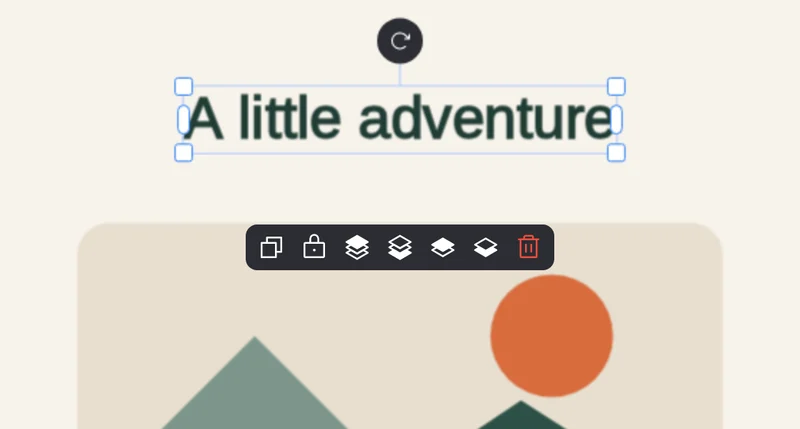
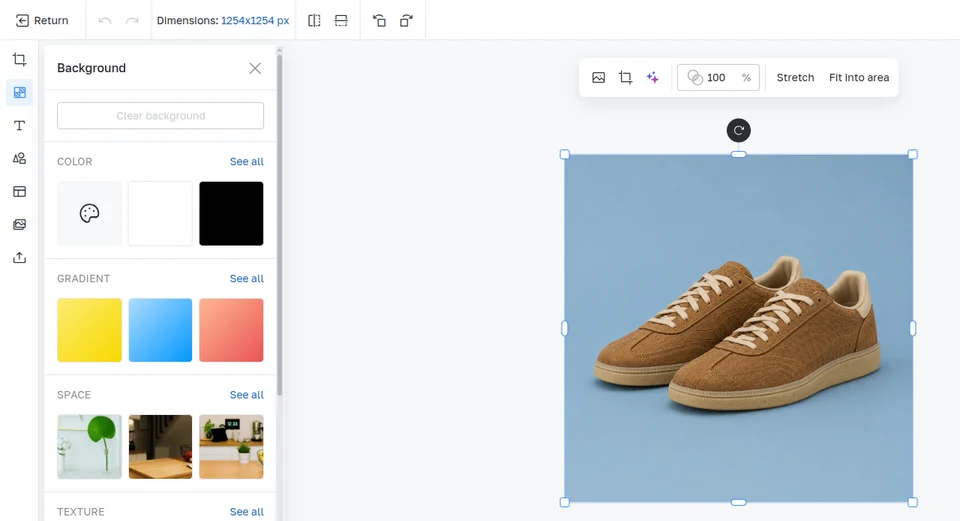
Put the Vue editor and the LinkedIn statement on the home cover; release 1.4.1
Owner's choice: the original stripes behind a real screenshot of the
Vue product image editor (linked to its case), with "I build complex
web applications." on the left. The "Browser editors" label is gone.

diff --git a/app/assets/css/main.css b/app/assets/css/main.css
@@ -173,14 +173,20 @@ p { line-height: inherit; }
 .sidebar-connect p { display: flex; gap: var(--space-1); align-items: center; font-size: 10px; }
 .sidebar-connect .status-dot { width: 4px; height: 4px; }
 .sidebar-connect a { display: inline-flex; align-items: center; min-height: 44px; font-size: 11px; }
-.profile-cover { position: relative; height: 196px; padding: var(--space-5) var(--gutter); background: var(--soft-accent); overflow: hidden; color: var(--accent-label); }
-/* The labels sit on a layer above the decorative shapes, which start to the right of them so nothing covers the text. */
-.profile-cover > span { position: relative; z-index: 1; font-size: 9px; text-transform: uppercase; letter-spacing: .18em; }
-/* The cover shows the real open-source editor (live-demo screenshot) and links to the demo. It ends above the button row, so the avatar and "Let's talk" keep their line. */
-.cover-demo { position: absolute; top: var(--space-5); right: var(--gutter); bottom: var(--space-8); aspect-ratio: 800 / 429; overflow: hidden; border: 1px solid var(--line); border-radius: 10px; background: #f6f2ea; box-shadow: 0 12px 32px -14px #050a14; transition: transform .2s, box-shadow .2s; }
-.cover-demo img { display: block; width: 100%; height: 100%; object-fit: cover; }
-@media (hover: hover) { .cover-demo:hover { transform: translateY(-2px); box-shadow: 0 16px 36px -14px #050a14; } }
-.cover-demo:focus-visible { outline-offset: 3px; }
+.profile-cover { position: relative; height: 228px; padding: var(--space-5) var(--gutter); background: var(--soft-accent); overflow: hidden; color: var(--accent-label); }
+/* Decorative stripes from the original cover sit behind the real Vue editor screenshot; the window ends above the avatar and button row. */
+.cover-shapes { display: flex; position: absolute; inset: -80px -20px -65px 372px; transform: rotate(-28deg); gap: 22px; }
+.cover-shapes i { display: block; width: 100px; border: 1px solid var(--cover-fill); border-radius: 65px; box-shadow: 0 0 0 12px var(--soft-accent), 0 0 0 13px #263d69; }
+.cover-shapes i:nth-child(2) { background: var(--cover-fill); }
+.cover-shapes i:nth-child(3) { background: var(--cover-light); }
+/* The owner's LinkedIn statement sits left of the stripes; on phones it sits above the editor window. */
+/* Line breaks come from the copy (as on the LinkedIn cover), so the block hugs its text and never reaches the stripes. */
+.cover-statement { position: relative; z-index: 1; display: flex; flex-direction: column; align-items: start; gap: var(--space-2); width: fit-content; white-space: pre-line; color: var(--accent-label); font-size: 12px; line-height: 1.5; }
+.cover-statement strong { color: var(--text); font-size: 24px; line-height: 1.15; font-weight: 650; letter-spacing: -.02em; }
+.cover-editor { position: absolute; z-index: 1; top: var(--space-5); right: var(--gutter); bottom: var(--space-8); aspect-ratio: 960 / 521; overflow: hidden; border: 1px solid #ffffff; border-radius: 10px; background: #ffffff; box-shadow: 0 16px 36px -12px #050a14; transition: transform .2s, box-shadow .2s; }
+.cover-editor img { display: block; width: 100%; height: 100%; object-fit: cover; object-position: left top; }
+@media (hover: hover) { .cover-editor:hover { transform: translateY(-2px); box-shadow: 0 20px 40px -12px #050a14; } }
+.cover-editor:focus-visible { outline-offset: 3px; }
 .profile-body { padding: 0 var(--gutter) var(--section-space); }
 .profile-actions { display: flex; align-items: center; justify-content: space-between; position: relative; margin-top: -34px; margin-bottom: var(--space-4); }
 .profile-avatar { position: relative; display: flex; justify-content: center; align-items: center; width: 86px; height: 86px; border: 6px solid var(--canvas); border-radius: 24px; background: var(--cover-light); color: #202c45; font-size: 32px; font-weight: 600; letter-spacing: -4px; }
@@ -432,9 +438,12 @@ p { line-height: inherit; }
   .primary-nav i { display: none !important; }
   .main-column { border: 0; padding-bottom: calc(76px + env(safe-area-inset-bottom)); }
   .page-topbar { min-height: 58px; padding-right: var(--space-2); }
-  /* On phones the window starts under the label row, so a long Russian label never runs beneath it. */
-  .profile-cover { height: 184px; }
-  .cover-demo { top: var(--space-10); }
+  .profile-cover { height: 268px; }
+  .cover-statement { gap: var(--space-1); font-size: 11px; }
+  .cover-statement strong { font-size: 20px; }
+  .cover-editor { top: 104px; }
+  .cover-shapes { left: 306px; gap: var(--space-3); }
+  .cover-shapes i { width: 54px; }
   .profile-body h1 { font-size: 29px; letter-spacing: -1px; }
   .profile-description { white-space: normal; font-size: 16px; }
   .profile-location { font-size: 11px; gap: var(--space-3); }

diff --git a/tests/e2e/responsive.spec.ts b/tests/e2e/responsive.spec.ts
@@ -42,28 +42,41 @@ for (const frame of frames) {
 }
 
 for (const frame of frames) {
-  test(`${frame.name} home cover keeps its label clear of the editor window and the button on the avatar's line`, async ({ page }) => {
+  test(`${frame.name} home cover keeps its statement clear and the editor window above the avatar and button line`, async ({ page }) => {
     await page.setViewportSize({ width: frame.width, height: frame.height })
     for (const path of ['/', '/ru/']) {
       await page.goto(path)
 
       const layout = await page.locator('.profile-cover').evaluate((cover) => {
-        const label = cover.querySelector('span')!.getBoundingClientRect()
-        const demo = cover.querySelector('.cover-demo')!.getBoundingClientRect()
+        const editor = cover.querySelector('.cover-editor')!.getBoundingClientRect()
+        const statement = cover.querySelector('.cover-statement')!
+        const shapes = [...cover.querySelectorAll('.cover-shapes i')]
+        // Hit-testing follows the stripes' rotation; the 13px margin covers their painted ring.
+        const box = statement.getBoundingClientRect()
+        let statementOnShapes = 0
+        for (let x = box.left - 13; x <= box.right + 13; x += 4) {
+          for (let y = box.top - 13; y <= box.bottom + 13; y += 4) {
+            if (document.elementsFromPoint(x, y).some(element => shapes.includes(element))) statementOnShapes += 1
+          }
+        }
         return {
-          labelRight: label.right,
-          labelBottom: label.bottom,
-          demo: demo.toJSON() as DOMRect,
+          statement: box.toJSON() as DOMRect,
+          statementOnShapes,
+          editor: editor.toJSON() as DOMRect,
+          cover: cover.getBoundingClientRect().toJSON() as DOMRect,
           coverBottom: cover.getBoundingClientRect().bottom,
           button: document.querySelector('.profile-actions .button')!.getBoundingClientRect().toJSON() as DOMRect,
           avatar: document.querySelector('.profile-avatar')!.getBoundingClientRect().toJSON() as DOMRect
         }
       })
 
-      // The label and the editor window never overlap: the window starts right of the label or below it.
-      expect(layout.labelRight < layout.demo.left || layout.labelBottom < layout.demo.top).toBe(true)
-      // The window ends above the button row, so "Let's talk" never sits on the screenshot.
-      expect(layout.demo.bottom).toBeLessThan(layout.button.top)
+      // The statement stays clear of the stripes and of the editor window (beside it on wide screens, above it on phones).
+      expect(layout.statementOnShapes).toBe(0)
+      expect(layout.statement.right <= layout.editor.left || layout.statement.bottom <= layout.editor.top).toBe(true)
+      // The window stays inside the cover and ends above the button row, so "Let's talk" never sits on the screenshot.
+      expect(layout.editor.left).toBeGreaterThan(layout.cover.left)
+      expect(layout.editor.right).toBeLessThan(layout.cover.right)
+      expect(layout.editor.bottom).toBeLessThan(layout.button.top)
       // Owner's design: the button and the avatar form one row that straddles the cover edge.
       const centre = (box: DOMRect) => box.top + box.height / 2
       expect(Math.abs(centre(layout.button) - centre(layout.avatar))).toBeLessThanOrEqual(1)
@@ -203,11 +216,16 @@ test('a card list keeps exactly one divider before the next band', async ({ page
   await expect(page.locator('.project-grid > :last-child')).toHaveCSS('border-bottom-width', '0px')
 })
 
-test('the home cover shows the real editor and opens its live demo in a new tab', async ({ page }) => {
-  await page.goto('/')
-  const demo = page.getByRole('link', { name: 'Open the live demo of my image editor, opens in a new tab' })
+for (const { path, name, href } of [
+  { path: '/', name: 'Product image editor case study', href: '/work/product-image-editor/' },
+  { path: '/ru/', name: 'Кейс редактора изображений для товаров', href: '/ru/work/product-image-editor/' }
+]) {
+  test(`${path} cover shows the real Vue editor and opens its case study`, async ({ page }) => {
+    await page.goto(path)
+    const editor = page.getByRole('link', { name, exact: true })
 
-  await expect(demo).toHaveAttribute('href', 'https://anu3ev.github.io/image-editor/')
-  await expect(demo).toHaveAttribute('target', '_blank')
-  await expect.poll(() => demo.locator('img').evaluate((image: HTMLImageElement) => image.naturalWidth)).toBeGreaterThan(0)
-})
+    await expect(editor).toHaveAttribute('href', href)
+    await expect(editor).not.toHaveAttribute('target', '_blank')
+    await expect.poll(() => editor.locator('img').evaluate((image: HTMLImageElement) => image.naturalWidth)).toBeGreaterThan(0)
+  })
+}

diff --git a/app/i18n/messages.ts b/app/i18n/messages.ts
@@ -4,7 +4,7 @@ export const messages = {
     homeSectionTitle: 'A little about me', aboutSectionTitle: 'Experience and approach', notebookTitle: 'Development notes',
     startConversation: 'Start a conversation', builtWithCare: 'Site built by',
     currentFocus: 'Current focus',
-    tagline: 'Senior frontend engineer · Vue and TypeScript · Batumi, Georgia', crafting: 'Browser editors',
+    tagline: 'Senior frontend engineer · Vue and TypeScript · Batumi, Georgia',
     workbench: 'Latest', workAndNotes: 'Work & notes', remote: 'Remote · B2B / EOR · Relocation', allWork: 'All work',
     collaboration: 'Working together',
     home: 'Home', work: 'Portfolio', blog: 'Blog', about: 'About', contact: 'Contacts',
@@ -32,13 +32,13 @@ export const messages = {
     services: 'What I bring', openSource: 'Open-source editor core',
     certificates: 'Certificates', certificatesTitle: 'Courses and tests', otherCertificates: 'Other certificates',
     certificateCourse: 'Course', certificateTest: 'Language test', certificateLessons: 'Lessons',
-    viewCertificate: 'View certificate', downloadCv: 'Download CV', bookCall: 'Book a call', openDemo: 'Open the live demo of my image editor', bookCallNote: '30-minute video call', opensInNewTab: 'opens in a new tab'
+    viewCertificate: 'View certificate', downloadCv: 'Download CV', bookCall: 'Book a call', openEditorCase: 'Product image editor case study', coverTitle: 'I build complex\nweb applications.', coverText: 'Browser editors. E-commerce tools.\nAI integrations.', bookCallNote: '30-minute video call', opensInNewTab: 'opens in a new tab'
   },
   ru: {
     homeSectionTitle: 'Немного обо мне', aboutSectionTitle: 'Опыт и подход к работе', notebookTitle: 'Заметки о разработке',
     startConversation: 'Как со мной связаться', builtWithCare: 'Сайт собрал',
     currentFocus: 'Чем занимаюсь',
-    tagline: 'Senior frontend-разработчик · Vue и TypeScript · Батуми, Грузия', crafting: 'Браузерные редакторы',
+    tagline: 'Senior frontend-разработчик · Vue и TypeScript · Батуми, Грузия',
     workbench: 'Свежее', workAndNotes: 'Проекты и заметки', remote: 'Удалённо · B2B / EOR · Релокация', allWork: 'Все проекты',
     collaboration: 'Формат работы',
     home: 'Главная', work: 'Портфолио', blog: 'Блог', about: 'Обо мне', contact: 'Контакты',
@@ -66,6 +66,6 @@ export const messages = {
     services: 'Чем могу помочь', openSource: 'Open-source ядро редактора',
     certificates: 'Сертификаты', certificatesTitle: 'Курсы и тесты', otherCertificates: 'Другие сертификаты',
     certificateCourse: 'Курс', certificateTest: 'Языковой тест', certificateLessons: 'Занятия',
-    viewCertificate: 'Открыть сертификат', downloadCv: 'Скачать резюме', bookCall: 'Созвониться', openDemo: 'Открыть демо моего редактора изображений', bookCallNote: 'Видеозвонок на 30 минут', opensInNewTab: 'откроется в новой вкладке'
+    viewCertificate: 'Открыть сертификат', downloadCv: 'Скачать резюме', bookCall: 'Созвониться', openEditorCase: 'Кейс редактора изображений для товаров', coverTitle: 'Делаю сложные\nвеб-приложения.', coverText: 'Браузерные редакторы, e-commerce,\nAI-интеграции.', bookCallNote: 'Видеозвонок на 30 минут', opensInNewTab: 'откроется в новой вкладке'
   }
 } as const

diff --git a/app/pages/[[lang]]/index.vue b/app/pages/[[lang]]/index.vue
@@ -17,11 +17,6 @@ const { data: projects } = await useAsyncData(
       .limit(1)
       .all()
 )
-/** The cover shows the open-source editor and links to its live demo, taken from that case's metadata. */
-const { data: editorDemo } = await useAsyncData(
-  'home-editor-demo',
-  () => queryCollection('projects').where('slug', '=', 'image-editor').where('locale', '=', 'en').select('demo').first()
-)
 const { data: posts } = await useAsyncData(
   () => `home-posts-${locale.value}`,
   () => getPostSummaries({ locale: locale.value, limit: 1 })
@@ -57,22 +52,25 @@ usePageSeo({
   <div>
     <section class="home-profile" aria-labelledby="home-title">
       <div class="profile-cover">
-        <span>{{ copy.crafting }}</span>
-        <a
-          v-if="editorDemo?.demo"
-          class="cover-demo"
-          :href="editorDemo.demo"
-          :title="copy.openDemo"
-          :aria-label="`${copy.openDemo}, ${copy.opensInNewTab}`"
-          target="_blank"
-          rel="noopener noreferrer"
+        <p class="cover-statement">
+          <strong>{{ copy.coverTitle }}</strong>
+          <span>{{ copy.coverText }}</span>
+        </p>
+        <div class="cover-shapes" aria-hidden="true">
+          <i /><i /><i />
+        </div>
+        <NuxtLink
+          class="cover-editor"
+          :to="localePath('/work/product-image-editor')"
+          :title="copy.openEditorCase"
+          :aria-label="copy.openEditorCase"
         ><img
           src="/images/editor-cover.webp"
           alt=""
-          width="800"
-          height="429"
+          width="960"
+          height="521"
           fetchpriority="high"
-        ></a>
+        ></NuxtLink>
       </div>
 
       <div class="profile-body">

diff --git a/tests/unit/spacing.test.ts b/tests/unit/spacing.test.ts
@@ -9,6 +9,7 @@ const GEOMETRY_EXCEPTIONS = [
   '.theme-switch: 3px',
   '.site-sidebar: 35px',
   '.wordmark: 53px',
+  '.cover-shapes: 22px',
   '.profile-actions: -34px'
 ]
 

diff --git a/docs/tasks/44-vue-editor-cover/summary.md b/docs/tasks/44-vue-editor-cover/summary.md
@@ -1,0 +1,15 @@
+# 44 — Vue editor and statement on the home cover
+
+The owner found the cover from task 41 ugly: a beige live-demo crop floating on a flat band, which was less cohesive than the old striped cover. He asked for the Vue editor preview from his LinkedIn cover and a statement that "speaks for me", and called the "Browser editors" label meaningless.
+
+**Image.** The window in the LinkedIn cover traces back, through its generation prompt, to a real inSales screenshot. The original, with the Background panel and swatches and the tan shoe on blue with selection handles, was found among the media embedded in the owner's Vue Product Image Editor deck (`image2.png`, 1919 × 895). The cover uses a straight crop of its left part: toolbar, panel and canvas. The UI was not composited or edited. The file is `public/images/editor-cover.webp`, 960 × 521, 27 KB. Its white and blue suit the site's palette, unlike the beige demo.
+
+**Layout.** The owner compared two versions on a page and chose B:
+- The original stripes return behind the editor window, which links to the product image editor case study (same tab).
+- On the left is the LinkedIn statement: "I build complex / web applications." with "Browser editors. E-commerce tools. / AI integrations.", and in Russian «Делаю сложные / веб-приложения.» with «Браузерные редакторы, e-commerce, / AI-интеграции.». The line breaks come from the copy, so the block hugs its text. It is a paragraph, not a heading, because the name stays the page's H1.
+- The "Browser editors" label is removed.
+- The cover is 228 px tall on desktop. On phones it is 268 px, with the statement on top and the window below it on the right.
+
+**Tests.** The cover test checks every frame in both languages: the statement doesn't touch the rotated stripes (hit-tested) or the window, the window stays inside the cover above the button row, and the button still shares the avatar's line. Two new tests check that the window links to the case study in each language, in the same tab, with a loaded image.
+
+Screenshots were checked at 1440 px (EN dark, RU light) and at 402, 360 and 320 px. The first tries overlapped the stripes and broke the English headline after "web"; the test caught both.

diff --git a/docs/README.md b/docs/README.md
@@ -50,6 +50,7 @@ Alexander Anufriev's new portfolio. Work started on 20 October 2026, Asia/Tbilis
 - [The editor on the home cover](tasks/41-editor-cover/summary.md)
 - [Frontend Jobs Radar case](tasks/42-frontend-jobs-radar/summary.md)
 - [Certificate rows stay inside their lines](tasks/43-certificate-row-hover/summary.md)
+- [Vue editor and statement on the home cover](tasks/44-vue-editor-cover/summary.md)
 
 Each task has a folder under `docs/tasks/`, a review and a `summary.md` describing actual results. Historical reports retain their original versions, test counts and captured evidence. Current operations live in `docs/operations/`.
 
